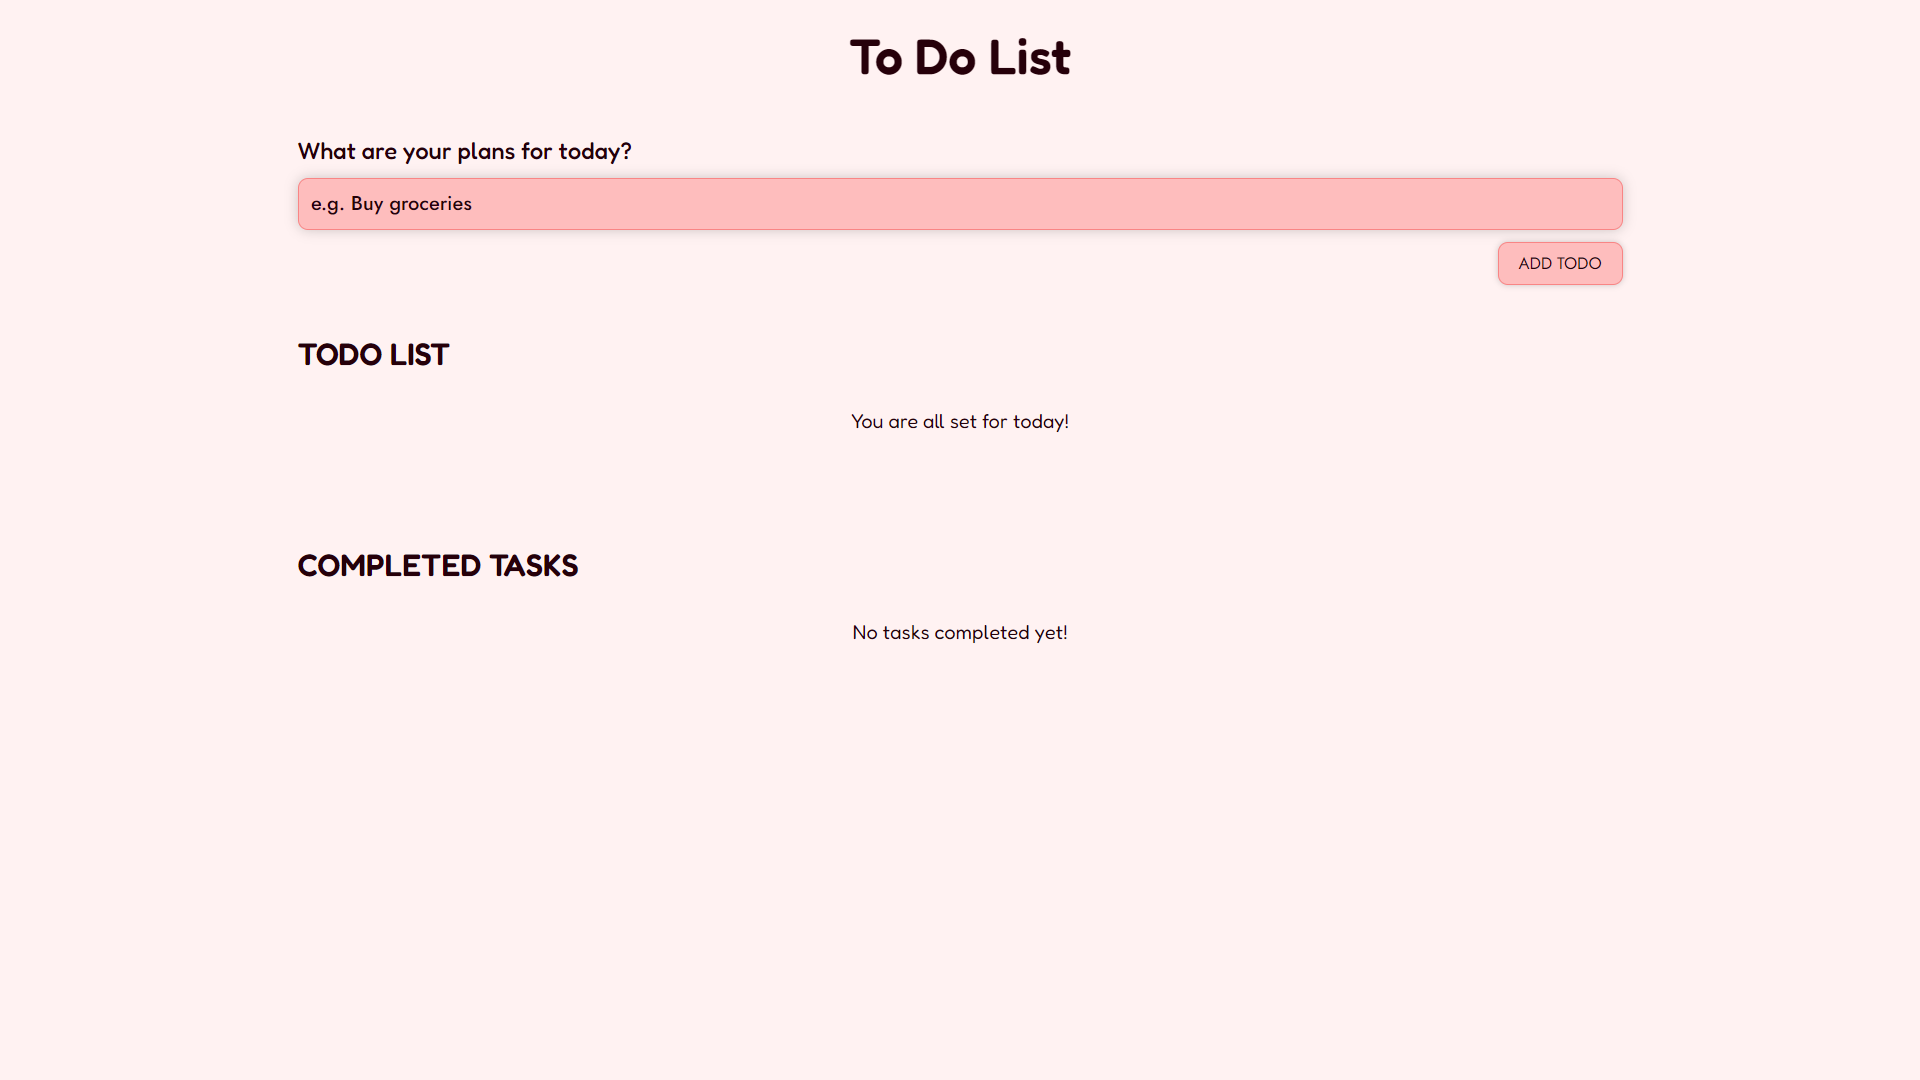
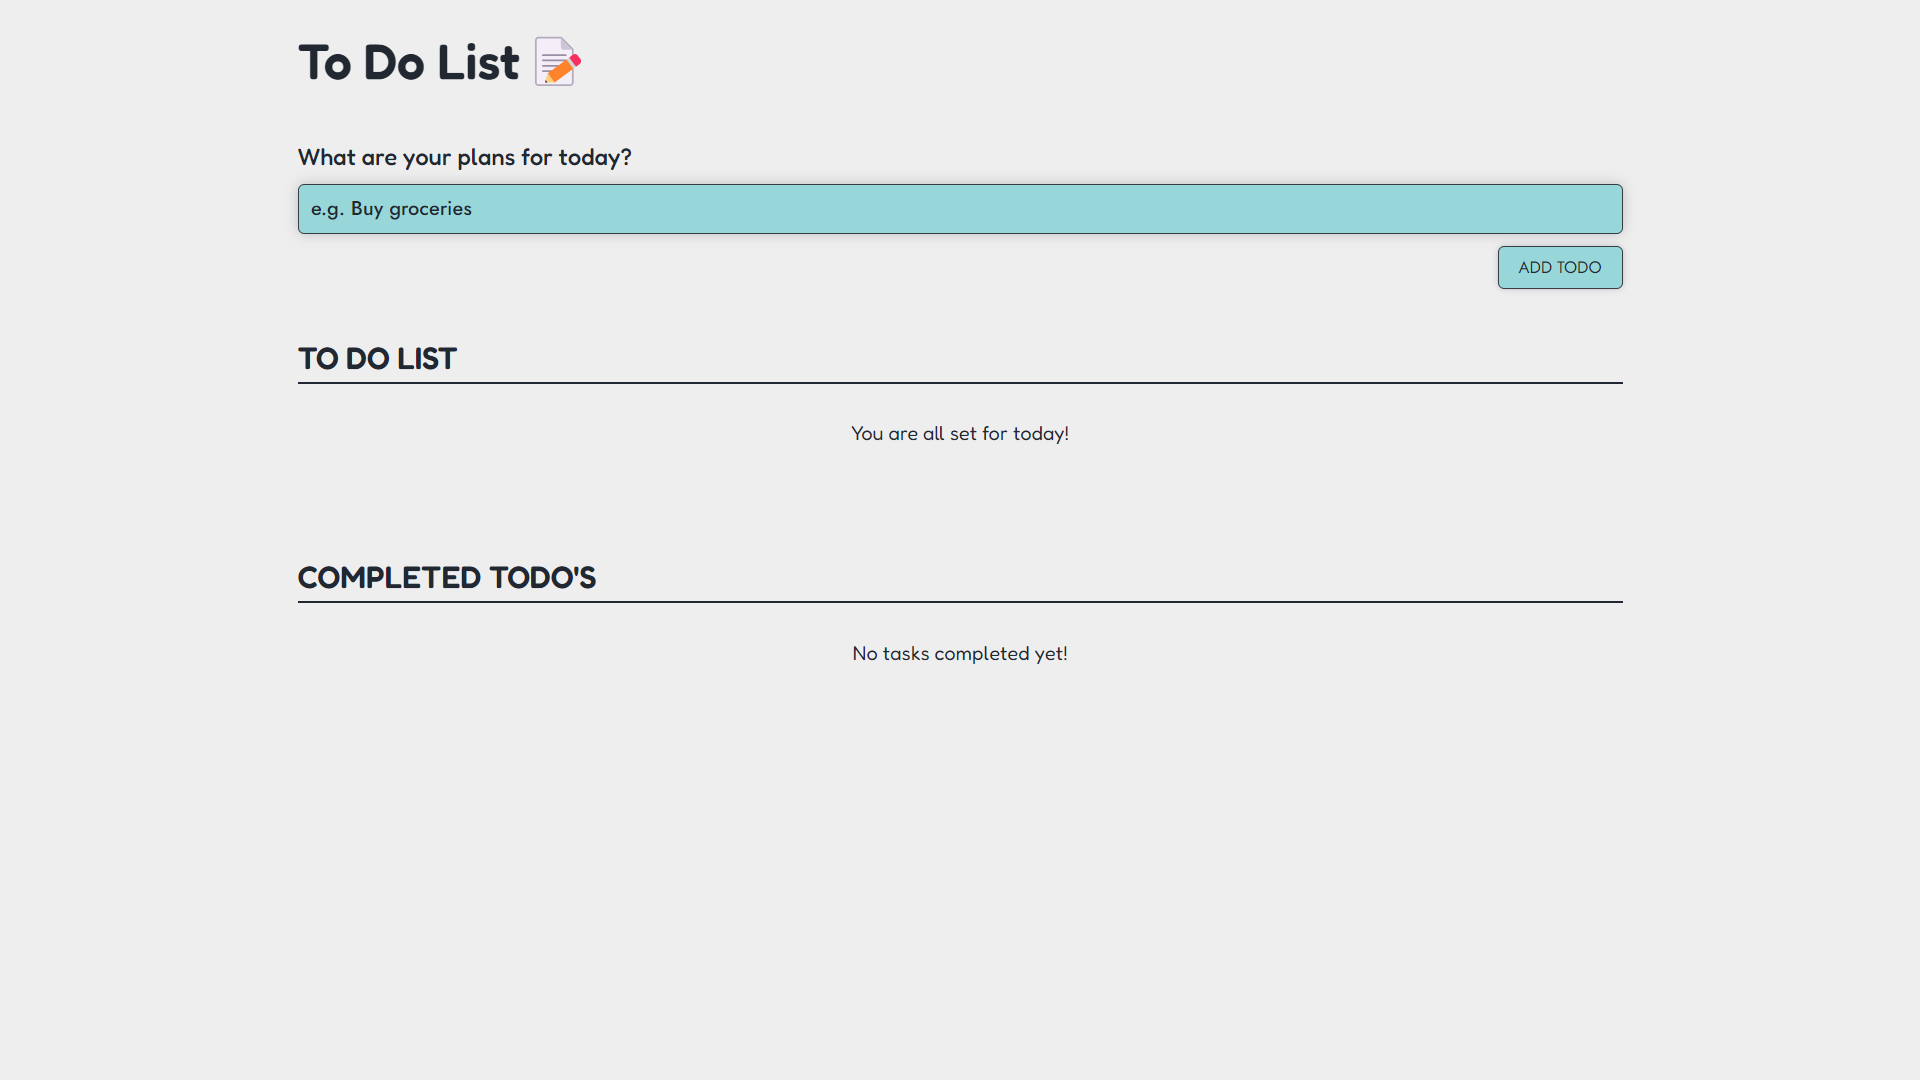
Update Readme and add some new screenshots to it

diff --git a/README.md b/README.md
@@ -61,6 +61,9 @@ Develop a basic to-do app that enables a user to add daily tasks. The to-do web 
 *To-Do App Screenshot*
 ![To-Do App Screenshot](screenshots/task3ss3.png)
 
+*To-Do App Screenshot*
+![To-Do App Screenshot](screenshots/task3ss4.png)
+
 ---
 
 ## Task 4 - Login Authentication System
